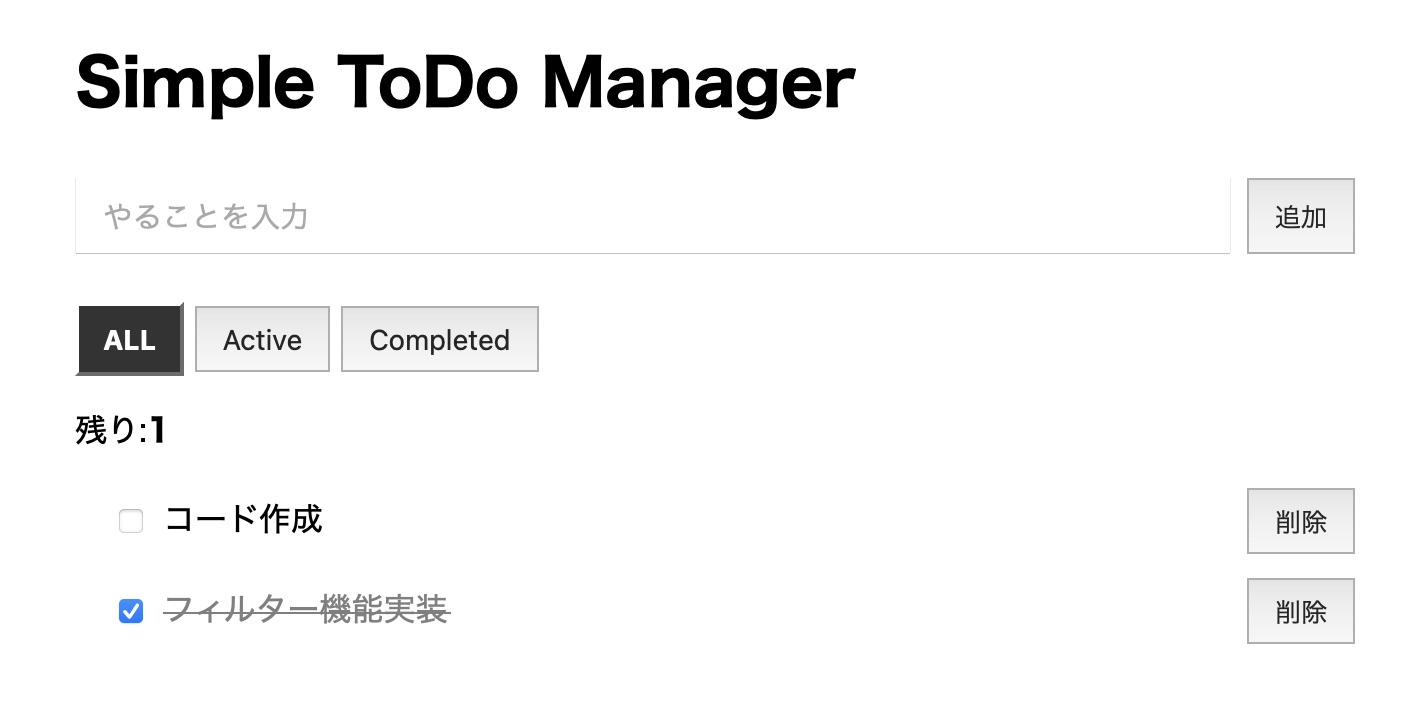
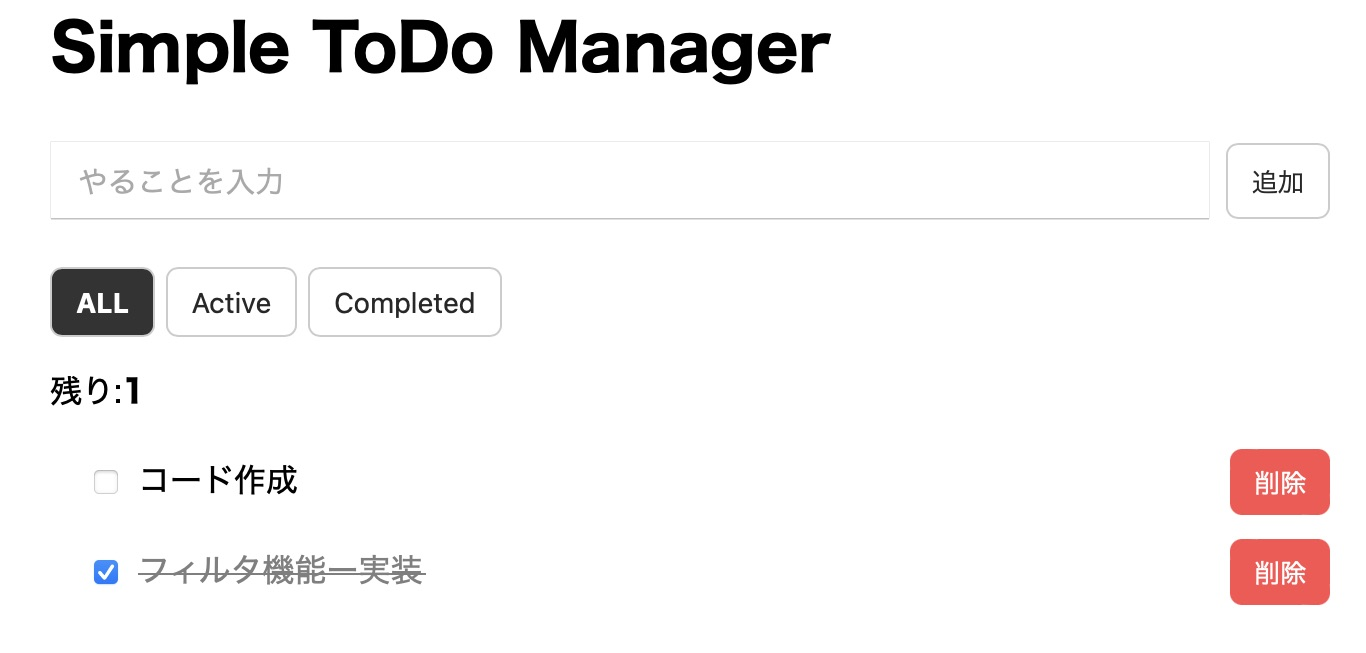
change screenshot and modify css
スクショ変更、css変更（ボタン）

diff --git a/style.css b/style.css
@@ -23,10 +23,30 @@ form{
     font-size: 16px;
 }
 
+/* ボタン(削除ボタン以外) */
 button{
     padding: 8px 12px;
     font-size: 14px;
-    cursor:pointer
+    cursor:pointer;
+    border-radius: 6px;
+    border: 1px solid #ccc;
+    background-color: white;
+    transition: 0.2s;
+}
+
+button:hover{
+    background-color: #f0f0f0;
+}
+
+/* 削除ボタン */
+#todo-list button{
+    background-color: #ff4d4f;
+    color: white;
+    border: none;
+}
+
+#todo-list button:hover{
+    background-color: #d9363e;
 }
 
 /*実行中タスクの見た目*/
@@ -55,4 +75,10 @@ button{
 
 #remaining-count{
     font-weight: bold;
+}
+
+/* 完了タスク */
+.completed{
+    text-decoration: line-through;
+    opacity: 0.5;
 }

diff --git a/script.js b/script.js
@@ -119,8 +119,7 @@ function renderList () {
       span.textContent = todo.title;
 
       if (todo.completed){
-        span.style.textDecoration = "line-through";
-        span.style.opacity = "0.5";
+        span.classList.add("completed");
       }
 
       // 削除ボタン
